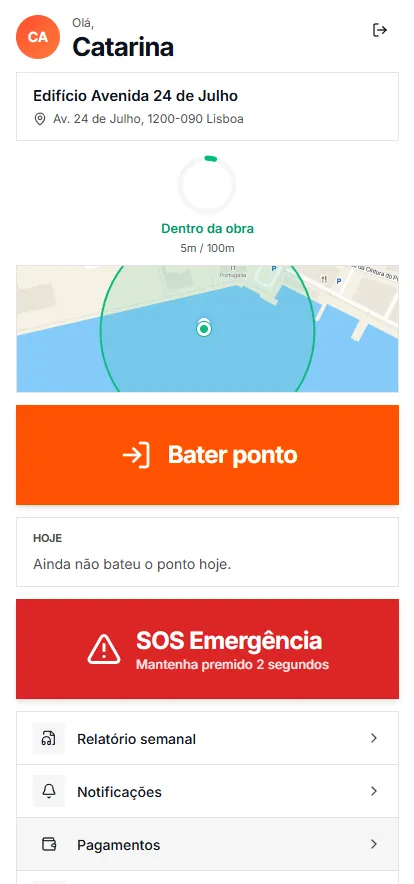
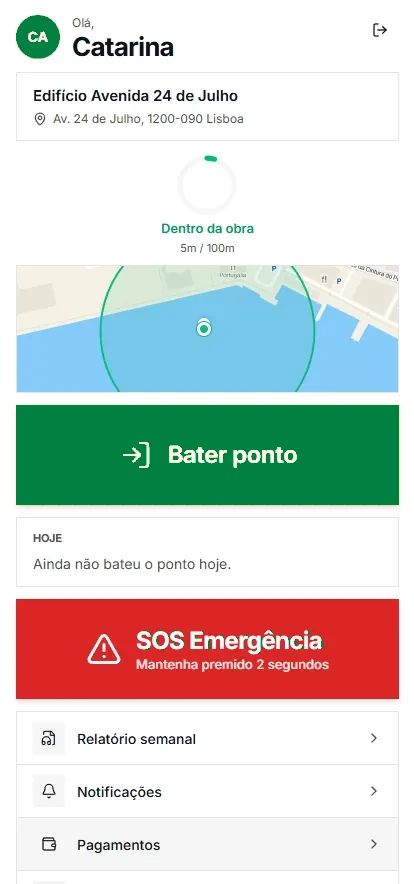
feat: product captures re-branded to Infinite World
The platform belongs to Infinite World; the captures were of the Decadas
instance of it. All eight captures used on the site now carry the group's
own identity:

- Sidebar lockup replaced with the Infinite World symbol and wordmark,
  drawn from the brand file and set in Montserrat
- The orange accent moved onto the brand green #008040. Solid surfaces
  land on the exact value, edges keep their own weight. Alert red stays
  red and map tiles are excluded, since their roads are not brand colour
- The operator name inside the audit rows is repainted, and the franchise
  filter label reads Licenca, matching how the model is actually named
- Map card crop regenerated from the re-branded overview

No operational content was altered: names, phone numbers, sites, dates,
addresses and hashes all stay where they were.

Also fixes three spots where accented text was double encoded and had
been rendering as mojibake since the first build, including the group
card title.

Generated with Claude Code

diff --git a/index.html b/index.html
@@ -649,10 +649,10 @@
               </p>
             </article>
             <article class="group-child">
-              <div class="child-name">DÃ‰CADAS</div>
+              <div class="child-name">DÉCADAS</div>
               <p data-i18n="grp_child">
                 A group company, the specialised arm executing construction
-                operations across the European Union. DÃ©cadas is our validated
+                operations across the European Union. Décadas is our validated
                 operation on the ground; it operates the platform, it does not
                 own it.
               </p>
@@ -767,7 +767,7 @@
             <div class="figure">
               <div class="fn g">+12%</div>
               <p data-i18n="dub_f1">
-                Tech and construction sector growth Â· 2026.
+                Tech and construction sector growth &middot; 2026.
               </p>
             </div>
             <div class="figure">
